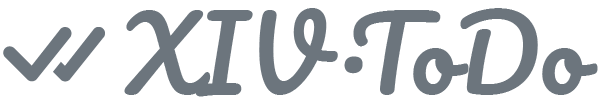
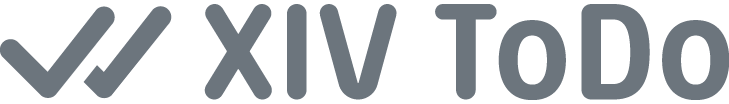
Update branding and styling

diff --git a/public/index.html b/public/index.html
@@ -29,8 +29,8 @@
 
     <link rel="preconnect" href="https://fonts.gstatic.com">
     <link href="https://fonts.googleapis.com/css2?family=Nunito:wght@300;600;800&display=swap" rel="stylesheet"> 
-    <link href="https://cdn.jsdelivr.net/npm/bootstrap-icons@1.5.0/font/bootstrap-icons.css" rel="stylesheet">
-    <link href="https://cdn.jsdelivr.net/npm/bootstrap@5.0.1/dist/css/bootstrap.min.css" rel="stylesheet">
+    <link href="https://cdn.jsdelivr.net/npm/bootstrap-icons@1.7.2/font/bootstrap-icons.css" rel="stylesheet">
+    <link href="https://cdn.jsdelivr.net/npm/bootstrap@5.1.3/dist/css/bootstrap.min.css" rel="stylesheet" integrity="sha384-1BmE4kWBq78iYhFldvKuhfTAU6auU8tT94WrHftjDbrCEXSU1oBoqyl2QvZ6jIW3" crossorigin="anonymous">
     <link href="/icons.css" rel="stylesheet">
 
     <link rel="canonical" href="https://xivtodo.com">
@@ -54,6 +54,7 @@
       </div>
     </div>
     <script src="https://img.finalfantasyxiv.com/lds/pc/global/js/eorzeadb/loader.js?v2"></script>
-    <script src="https://cdn.jsdelivr.net/npm/bootstrap@5.0.1/dist/js/bootstrap.bundle.min.js" type="text/javascript"></script>
+    <script src="https://cdn.jsdelivr.net/npm/bootstrap@5.1.3/dist/js/bootstrap.bundle.min.js" integrity="sha384-ka7Sk0Gln4gmtz2MlQnikT1wXgYsOg+OMhuP+IlRH9sENBO0LRn5q+8nbTov4+1p" crossorigin="anonymous"></script>
+
   </body>
 </html>

diff --git a/src/components/TheFooter.vue b/src/components/TheFooter.vue
@@ -6,20 +6,6 @@
     </div>
     <div class="flex-fill text-center text-muted">
       <img src="../assets/brand_grey.png" alt="XIV ToDo branding" />
-      &nbsp;
-      <a
-        class="bi bi-twitter"
-        href="https://twitter.com/XIVToDo"
-        target="_blank"
-        rel="noopener noreferrer"
-      ></a>
-      &nbsp;
-      <a
-        class="bi bi-github"
-        href="https://github.com/bourgeoisor/xivtodo"
-        target="_blank"
-        rel="noopener noreferrer"
-      ></a>
       <br />
       <router-link to="/">
         <small>{{ $t("page.about") }}</small>
@@ -39,6 +25,10 @@
       ·
       <a href="https://ko-fi.com/olivi_eh" target="_blank" rel="noopener noreferrer">
         <small>{{ $t("page.donate") }}</small>
+      </a>
+      ·
+      <a href="https://twitter.com/XIVToDo" target="_blank" rel="noopener noreferrer">
+        <small>{{ $t("page.twitter") }}</small>
       </a>
     </div>
     <div class="footer-copyrights text-muted text-end my-auto d-none d-lg-block col-4">
@@ -83,7 +73,7 @@ footer a {
 }
 
 footer img {
-  height: 1em;
+  height: 22px;
   margin-bottom: 5px;
   margin-top: 5px;
 }

diff --git a/src/views/Home.vue b/src/views/Home.vue
@@ -32,13 +32,6 @@
         alt="XIV ToDo branding"
         width="300"
       />
-      <img
-        v-else
-        class="d-block mx-auto mb-4"
-        src="../assets/brand_black.png"
-        alt="XIV ToDo branding"
-        width="300"
-      />
       <h1 class="visually-hidden">XIV ToDo</h1>
       <div class="col-lg-6 mx-auto">
         <p class="lead mb-4">
@@ -190,6 +183,11 @@
                 {{ $t("home.viewGitHub") }}
               </button>
             </a>
+            <a href="https://ko-fi.com/olivi_eh" target="_blank" rel="noopener noreferrer">
+              <button type="button" class="btn btn-outline-success btn-lg px-4 me-md-2">
+                {{ $t("page.donate") }}
+              </button>
+            </a>
           </div>
         </div>
       </div>
@@ -198,11 +196,6 @@
 </template>
 
 <style lang="scss">
-#features-grid h4 {
-  text-decoration: underline;
-  text-decoration-color: #41b883;
-}
-
 #features-grid .bi {
   color: #41b883;
   font-size: 1.75em;
